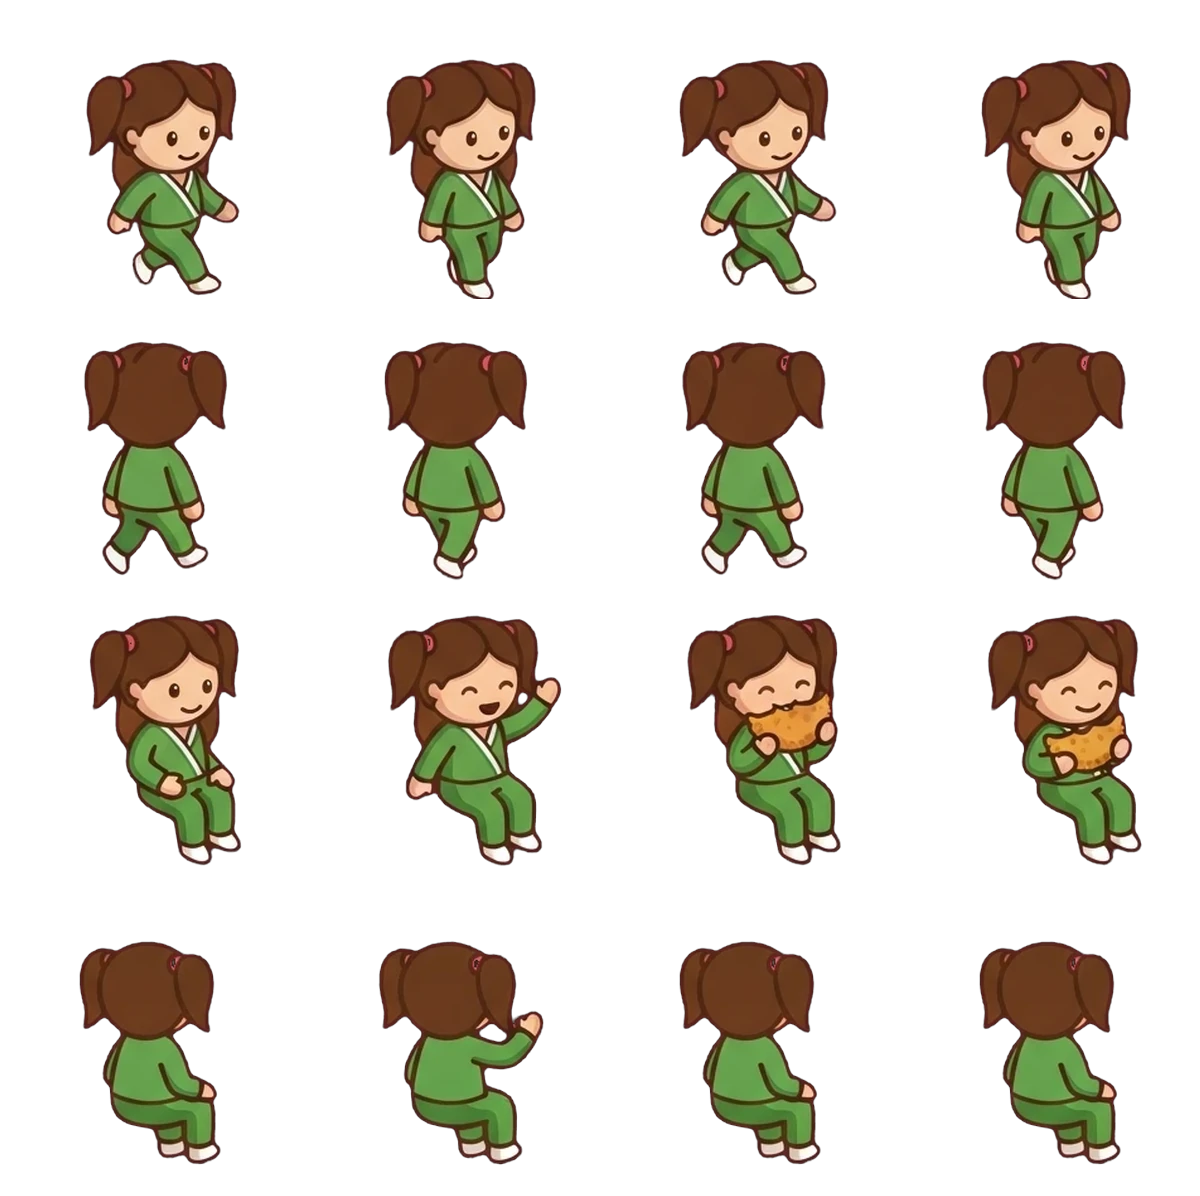
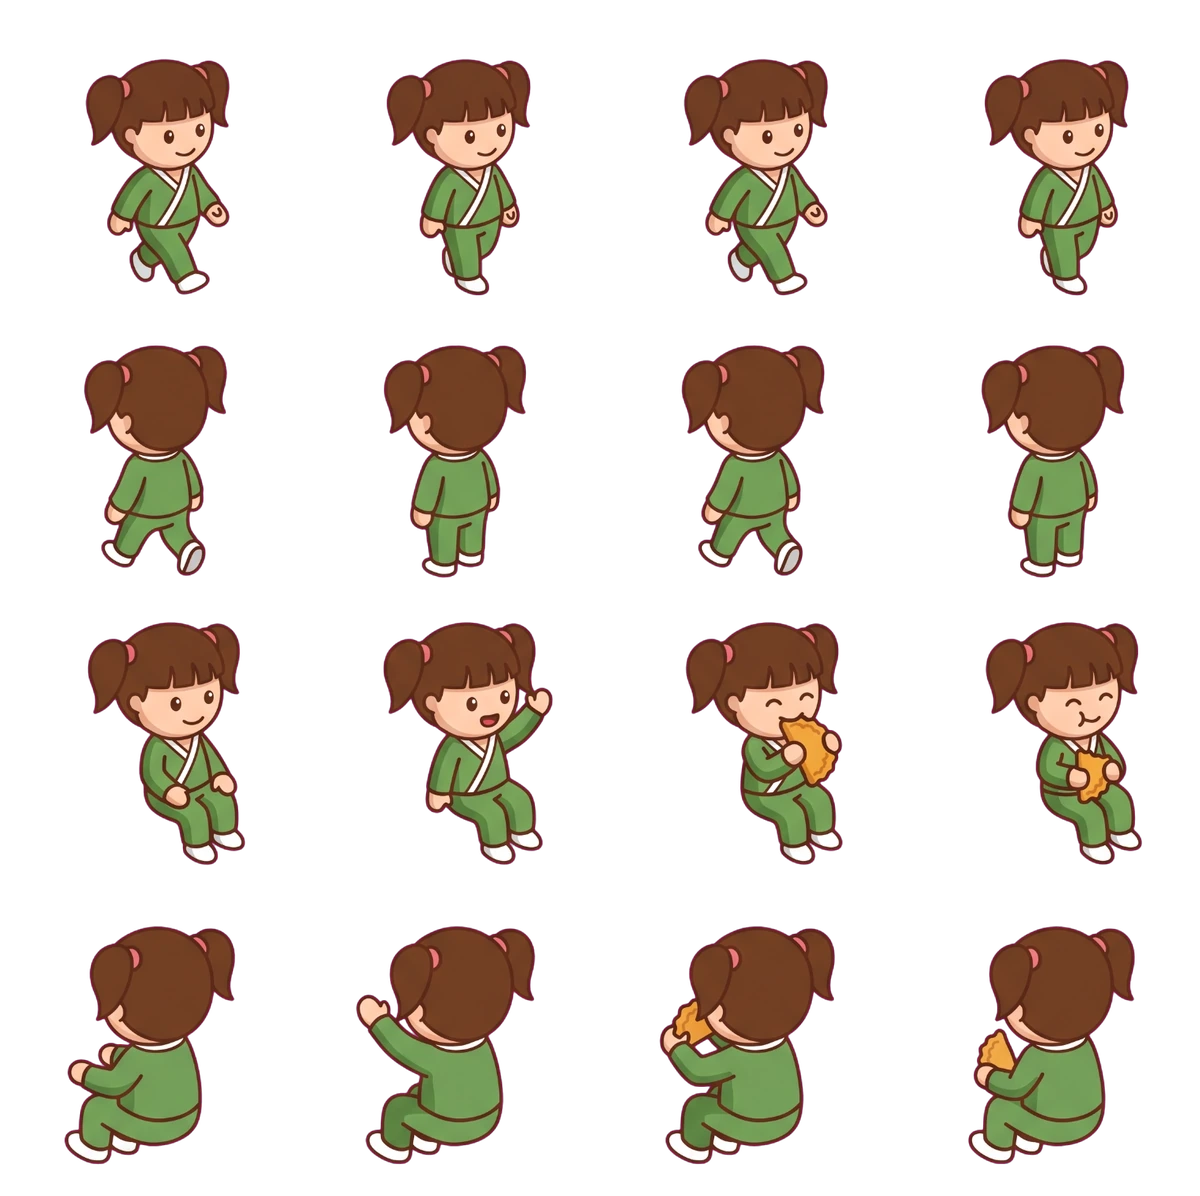
New girl sprites, tab close button, energy balance, account stats
- Regenerated girl sheet (Comfy, Nano Banana 2.1): all 4 rows redrawn, back-sitting faces the table and eats.
- Wooden close button on the Tasks, Town, Upgrades and Account tabs returns to the cafe.
- Upgrades: removed tap power; energy cap +10 per level; energy regen 1 per minute, -1 s per regen level.
- Account: "Гостей обслужено" replaces total taps; tap power row removed.

diff --git a/src/data/content.ts b/src/data/content.ts
@@ -2,33 +2,23 @@ import type { BuildingDef, TaskDef, UpgradeDef } from '../types/game';
 
 export const UPGRADES: UpgradeDef[] = [
   {
-    id: 'tap',
-    name: 'Сила тапа',
-    description: '+1 монета за тап',
-    baseCost: 100,
-    costFactor: 1.45,
-    maxLevel: 50,
-    effectPerLevel: 1,
-    icon: '👆',
-  },
-  {
     id: 'energy',
     name: 'Запас энергии',
-    description: '+50 к максимуму энергии',
+    description: '+10 к максимуму энергии',
     baseCost: 250,
     costFactor: 1.5,
     maxLevel: 30,
-    effectPerLevel: 50,
+    effectPerLevel: 10,
     icon: '⚡',
   },
   {
     id: 'regen',
     name: 'Восстановление',
-    description: '+0.2 энергии/сек',
+    description: '−1 сек к восстановлению',
     baseCost: 400,
     costFactor: 1.55,
     maxLevel: 25,
-    effectPerLevel: 0.2,
+    effectPerLevel: 1,
     icon: '🔋',
   },
   {

diff --git a/src/App.tsx b/src/App.tsx
@@ -79,6 +79,20 @@ export default function App() {
       <div className="game-screen game-screen--panel">
         <div className="game-screen__bg" aria-hidden />
         <main className="gs-panel">
+          <button
+            type="button"
+            className="gs-square gs-panel__close"
+            onClick={() => {
+              setFoodOpen(false);
+              setTab('earn');
+            }}
+            aria-label="Закрыть"
+          >
+            <svg width="18" height="18" viewBox="0 0 18 18" aria-hidden>
+              <path d="M3 3L15 15M15 3L3 15" stroke="#4a2208" strokeWidth="5" strokeLinecap="round" />
+              <path d="M3 3L15 15M15 3L3 15" stroke="#fff" strokeWidth="2.6" strokeLinecap="round" />
+            </svg>
+          </button>
           {tab === 'tasks' && <TasksScreen store={store} />}
           {tab === 'town' && <TownScreen store={store} />}
           {tab === 'upgrades' && <UpgradesScreen store={store} />}

diff --git a/src/store/gameStore.ts b/src/store/gameStore.ts
@@ -7,8 +7,11 @@ import type { GameState } from '../types/game';
 
 const BASE_MAX_ENERGY = 100;
 const BASE_TAP = 1;
-/** Energy per second: +1 every 5 s. */
-const BASE_REGEN = 0.2;
+/** Seconds to restore 1 energy; each «Восстановление» level takes 1 s off. */
+const BASE_REGEN_SECONDS = 60;
+const REGEN_STEP_SECONDS = 1;
+/** Energy per second at level 0: +1 a minute. */
+const BASE_REGEN = 1 / BASE_REGEN_SECONDS;
 
 function createInitialState(): GameState {
   return {
@@ -49,8 +52,8 @@ function deriveStats(state: GameState): Pick<GameState, 'tapPower' | 'maxEnergy'
   const regenLvl = state.upgradeLevels.regen ?? 0;
   return {
     tapPower: BASE_TAP + tapLvl,
-    maxEnergy: BASE_MAX_ENERGY + energyLvl * 50,
-    energyRegen: BASE_REGEN + regenLvl * 0.2,
+    maxEnergy: BASE_MAX_ENERGY + energyLvl * 10,
+    energyRegen: 1 / Math.max(1, BASE_REGEN_SECONDS - regenLvl * REGEN_STEP_SECONDS),
   };
 }
 

diff --git a/src/screens/AccountScreen.tsx b/src/screens/AccountScreen.tsx
@@ -68,8 +68,8 @@ export function AccountScreen({ store, onSettings, onShop }: Props) {
 
       <ul className="stats-list">
         <li>
-          <span>Всего тапов</span>
-          <strong>{formatNumber(state.totalTaps)}</strong>
+          <span>Гостей обслужено</span>
+          <strong>{formatNumber(state.totalServed)}</strong>
         </li>
         <li>
           <span>Всего заработано</span>
@@ -84,10 +84,6 @@ export function AccountScreen({ store, onSettings, onShop }: Props) {
             <DiamondIcon className="inline-icon" />
             {formatNumber(state.hard)}
           </strong>
-        </li>
-        <li>
-          <span>Сила тапа</span>
-          <strong>{state.tapPower}</strong>
         </li>
       </ul>
 

diff --git a/src/index.css b/src/index.css
@@ -961,8 +961,17 @@ ul {
   min-height: 0;
   z-index: 2;
   overflow-y: auto;
+  position: relative;
   padding: calc(var(--safe-top) + 14px) var(--gs-gutter) 18px;
   -webkit-overflow-scrolling: touch;
+}
+
+/* Wooden × in the top-right corner of a tab: back to the café screen. */
+.gs-panel__close {
+  position: absolute;
+  z-index: 1;
+  top: calc(var(--safe-top) + 10px);
+  right: var(--gs-gutter);
 }
 
 .panel-screen {
@@ -1346,7 +1355,7 @@ ul {
 
 /* Girl customer: same 4 × 4 layout as the boy (walk in, walk out, sit front, sit back). */
 .gs-scene__boy[data-kind='girl'] {
-  background-image: url(/figma/restaurant/customer-girl.webp?v=1);
+  background-image: url(/figma/restaurant/customer-girl.webp?v=5);
 }
 
 /* Ready dish in a serving-counter tray. */

diff --git a/src/screens/UpgradesScreen.tsx b/src/screens/UpgradesScreen.tsx
@@ -11,7 +11,7 @@ export function UpgradesScreen({ store }: Props) {
   return (
     <section className="panel-screen">
       <h2 className="panel-title">Улучшения</h2>
-      <p className="panel-sub">Сильнее тап — больше монет</p>
+      <p className="panel-sub">Больше энергии — больше блюд</p>
       <ul className="card-list">
         {UPGRADES.map((u) => {
           const level = state.upgradeLevels[u.id] ?? 0;

diff --git a/.ai/STATE.md b/.ai/STATE.md
@@ -13,6 +13,29 @@
 - Известные проблемы: облако в реальном Telegram ещё не проверено; `initData` старше 24 ч отклоняется — в очень долгой сессии сохранение в облако остановится до перезапуска; запуск ждёт облако до 3 с.
 - Следующая точка входа: в Telegram сыграть, перезапустить, открыть на другом устройстве; Supabase → `players.customers_served`.
 
+## Последняя задача: баланс энергии и улучшений (2026-11-08)
+
+- По просьбе пользователя (утверждено): из `UPGRADES` убрана «Сила тапа»; «Запас энергии» +10 за уровень (было +50); энергия восстанавливается 1 ед. в 60 с (было 1 в 5 с), «Восстановление» −1 с за уровень (`energyRegen = 1 / (60 − ур.)`, на 25-м — 1 ед. в 35 с). Подпись «Улучшений» — «Больше энергии — больше блюд». У старых сейвов максимум пересчитывается, лишняя энергия обрезается; уровни `tap` остаются в сейве без эффекта. Изменены `src/data/content.ts`, `src/store/gameStore.ts`, `src/screens/UpgradesScreen.tsx`. Превью: 3 улучшения, `energyRegen` 1/60; build PASS. Не закоммичено.
+
+## Задача: кнопка × на вкладках (2026-11-08)
+
+- По просьбе пользователя (макет `design/tab-close-mockup-wood.png` утверждён): на вкладках «Задачи», «Город», «Улучшения», «Аккаунт» в правом верхнем углу деревянная кнопка × (стиль `gs-square`, как шестерёнка настроек) → экран кафе (`tab = 'earn'`, меню «Еда» закрыто). Изменены `src/App.tsx`, `src/index.css` (`.gs-panel` relative, `.gs-panel__close`). Превью: кнопка на всех 4 вкладках, возврат в кафе работает; lint (2 прежних предупреждения), build PASS. Не закоммичено.
+
+## Задача: статистика в аккаунте (2026-11-08)
+
+- По просьбе пользователя в `src/screens/AccountScreen.tsx` строка «Всего тапов» заменена на «Гостей обслужено» (`state.totalServed`), строка «Сила тапа» убрана. Поля `totalTaps`/`tapPower` в состоянии остались (не трогали). Lint/tsc PASS, превью: три строки. Не закоммичено.
+
+## Задача: девочка перегенерирована целиком (2026-11-08)
+
+- Новый лист сгенерирован в Comfy Cloud (Nano Banana 2.1, промпт `design/nano-banana-girl-full-prompt.md`; Image 1 — `girl-ref-v2`, Image 2 — `customer-boy.webp`), исходник — `design/sprites/girl-sheet-v3-raw.webp` (1400², 4×4 на пурпурном фоне). Все 4 ряда новые: идёт вниз-вправо, уходит на северо-запад спиной, сидит лицом (ждёт/зовёт/ест), сидит спиной к столу на северо-запад и ест чебурек.
+- Сборка в `public/figma/restaurant/customer-girl.webp` (1200×1196, клетки 300×299): ключ пурпура + удаление пурпурной каймы, один масштаб 235/298 для всех рядов; ряды 0–2 выровнены по центру головы и низу как прежняя девочка, ряд 3 — по правому краю спины (x 234) и низу 266, чтобы кадры не дрожали. CSS `customer-girl.webp?v=5`. Это заменяет правки ниже (отражение рядов и вклейку чебурека).
+- Проверено в превью: оба стула (ждёт, ест лицом и спиной), ходьба рядом с мальчиком — рост совпадает; build PASS. Не закоммичено.
+
+## Задача: девочка смотрит на северо-запад (сидит спиной и уходит) (2026-11-08, заменено)
+
+- По жалобе пользователя: в ряду 3 (сидит спиной) `customer-girl.webp` девочка была повёрнута на северо-восток. Кадры отражены по горизонтали со сдвигом +20 px, чтобы точка бедра (160, 215) осталась на месте; теперь она смотрит к столу, как мальчик. Ряд 1 (уходит к двери) тоже шёл на северо-восток — отражён относительно точки ступней (x 150), теперь идёт на северо-запад, как мальчик. CSS `customer-girl.webp?v=3`. Проверка — `design/girl-front-chair-nw.jpg`. Не закоммичено.
+- По просьбе пользователя добавлена еда спиной: в ряд 3, кадры 2–3 `customer-girl.webp`, вклеена иконка чебурека (`food-cheburek.png`) — кадр 2 на основе «рука поднята» (чебурек у лица), кадр 3 на основе «ждёт» (чебурек в руке у колен). CSS `customer-girl.webp?v=4`. Проверка — `design/girl-front-chair-eat.jpg`.
+
 ## Последняя задача: линия поперёк гостя на переднем стуле (2026-11-08)
 
 - По просьбе пользователя: в `chair-right-back.webp` стёрта тонкая линия (задний край сиденья от левого угла к спинке), которая рисовалась поверх ребёнка на переднем стуле. Также стёрт светлый кусочек сиденья слева от стойки спинки (до ножки/рейки). Пустой стул не изменился (линию перекрывает `chair-right`). `ASSET_VERSION` = 4. Проверка — `design/front-chair-line-fix.jpg`; build PASS. Коммит `4a21a87`, push в `main`; деплой https://github.com/aStormspirit/chebutap/actions/runs/42454782205 — SUCCESS.

diff --git a/design/nano-banana-girl-full-prompt.md b/design/nano-banana-girl-full-prompt.md
@@ -1,0 +1,33 @@
+# Девочка — полный лист заново (Nano Banana, 2026-11-08)
+
+Один запрос — весь лист 4×4, ряды и позы точно как у мальчика (`public/figma/restaurant/customer-boy.webp`). Стул и стол не рисуем: девочка садится между слоями стула в игре, как мальчик.
+
+Прикрепите:
+- **Image 1** — `design/sprites/girl-ref-v2.webp` (девочка без лишнего объёма волос — образец внешности);
+- **Image 2** — `public/figma/restaurant/customer-boy.webp` (сетка, позы, направления и размер — повторить один в один).
+
+```
+Draw a character sprite sheet for a 2D cartoon game in exactly the same art style as Image 2: flat cartoon, thin dark-brown outlines, flat colors, no textures, no gradients, the same camera angle from slightly above.
+
+The character: the girl from Image 1. Copy her exactly in every frame: face, bangs, hair that ends at ear level, two pigtails sticking out to the sides tied with pink hair ties, green outfit with the white collar stripe, white shoes, colors and proportions. NO hair mass behind her head, neck, shoulders or back in any frame.
+
+Image 2 is the exact layout and pose guide: the same 4 x 4 grid of 16 equal square cells, the same pose in each cell, the same facing direction in each cell, the same character size and position in each cell — only the boy is replaced by the girl. She is the same height as the boy. No cell borders, no numbers, no text.
+
+Row 1 — walking toward the viewer, DOWN-RIGHT (3/4 front view, facing down-right, exactly like row 1 of Image 2), a walk cycle: 1) left leg forward; 2) legs together; 3) right leg forward; 4) legs together.
+
+Row 2 — walking away from the viewer, UP-LEFT (3/4 BACK view, her body and feet turned to the LEFT exactly like row 2 of Image 2; we see her back and both pigtails, her face is not visible), a walk cycle: 1) left leg forward; 2) legs together; 3) right leg forward; 4) legs together.
+
+Row 3 — sitting on an invisible chair, FACING the viewer, turned down-right exactly like row 3 of Image 2, knees bent, sitting upright: 1) waiting, hands on her knees, smiling; 2) raising one hand to call the waiter, mouth open; 3) holding a golden-brown cheburek (big half-moon fried pastry) with both hands at her mouth and biting it, eyes closed happily; 4) lowering the cheburek and chewing, smiling.
+
+Row 4 — sitting on an invisible chair with her BACK to the viewer, facing UP-LEFT toward the table exactly like row 4 of Image 2 (we see her back and both pigtails, her face is not visible, her knees and arms point up-left): 1) waiting, hands forward at table height; 2) raising her right hand up to call the waiter; 3) holding a golden-brown cheburek with both hands up at her mouth, elbows raised, like cell 3 of row 4 in Image 2; 4) lowering the cheburek, chewing, like cell 4 of row 4 in Image 2.
+
+Do NOT draw any chair, table or floor. Background: solid flat pure magenta #FF00FF everywhere, no shadows, nothing else.
+Square 1:1 image, all 16 poses fully visible, not cropped.
+```
+
+Если что-то не так, допишите к промпту:
+- повёрнута не туда в рядах 2 или 4: `Rows 2 and 4: she faces UP-LEFT, the same direction as the boy in rows 2 and 4 of Image 2, never up-right.`
+- снова объём волос за головой: `Behind her head and between the pigtails there is only background, no hair mass.`
+- разный размер: `All 16 poses: same character height as the boy in Image 2, centered in equal square cells.`
+
+Готовый лист положите в `design/sprites/girl-sheet-v3-raw.webp` (или пришлите в чат). Я вырежу фон, подгоню каждый ряд по размеру и опорным точкам под сетку мальчика и пришлю превью сцены на утверждение.
